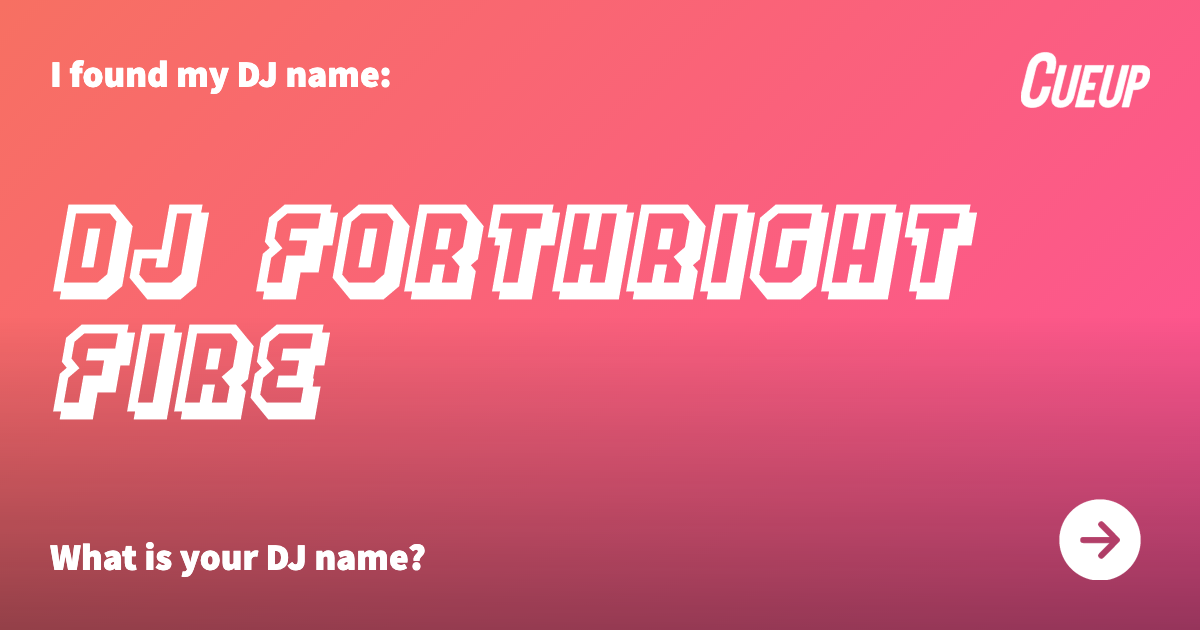
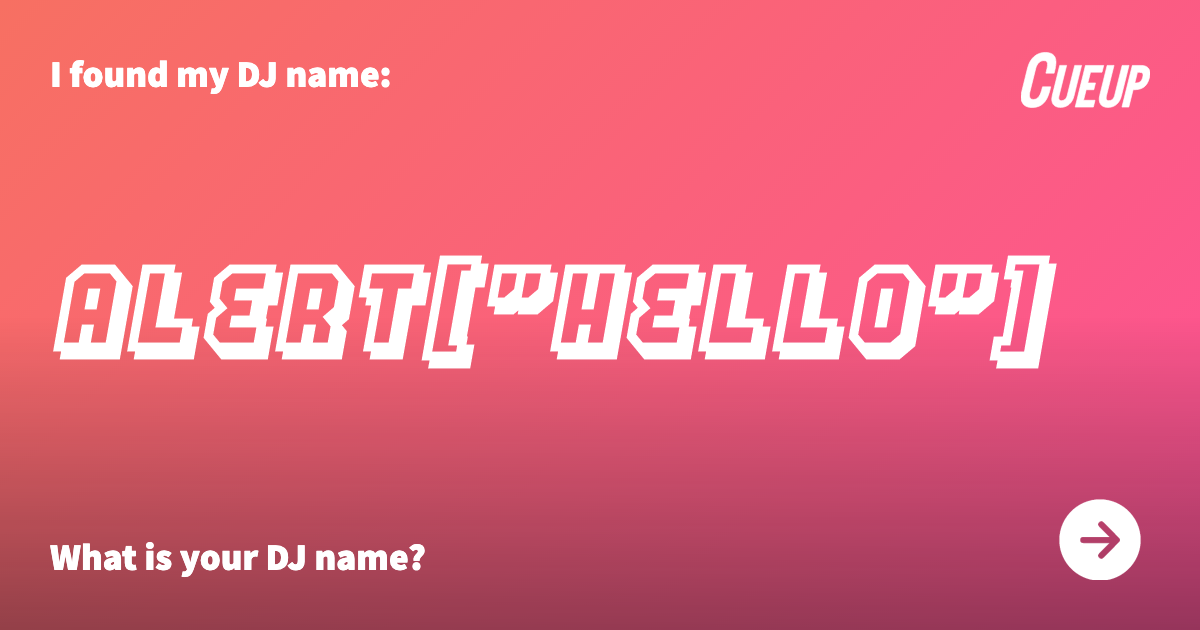
new path for image

Changed region(s): [[0.0308, 0.3016, 0.8942, 0.6937]]

diff --git a/src/server/middleware/addSocialImages.js b/src/server/middleware/addSocialImages.js
@@ -7,16 +7,24 @@ const { readFileSync } = require('fs');
 
 const djNameGenerator = async (req, res) => {
     try {
-        const name = req.queryString('name');
+        let name = req.path.split('/').pop();
 
         if (!name) {
             throw new Error('name not included');
         }
+
+        name = decodeURIComponent(name);
+
+        const puppeteerArgs = {
+            args: ['--no-sandbox', '--disable-setuid-sandbox'],
+        };
+
+        if (process.env.NODE_ENV !== 'development') {
+            puppeteerArgs.executablePath = '/usr/bin/chromium-browser';
+        }
+
         const img = await renderSocialImage({
-            puppeteerArgs: {
-                executablePath: '/usr/bin/chromium-browser',
-                args: ['--no-sandbox', '--disable-setuid-sandbox'],
-            },
+            puppeteerArgs,
             templateBody: `
             <link href="https://fonts.googleapis.com/css2?family=Source+Sans+Pro:wght@900&display=swap" rel="stylesheet"> 
                 <div class="main">
@@ -166,7 +174,7 @@ const djNameGenerator = async (req, res) => {
 
 const addSocialImages = (app) => {
     router.use(sanitize);
-    router.get('/dj-name-generator.png', djNameGenerator);
+    router.get('/dj-name-generator/*', djNameGenerator);
 
     app.use('/sharing-previews', router);
 };

diff --git a/src/shared/routes/DjNameGenerator/src/DjNameGenerator.js b/src/shared/routes/DjNameGenerator/src/DjNameGenerator.js
@@ -1,6 +1,6 @@
 import React, { useState, useEffect, useRef, useCallback } from 'react';
 import { Helmet } from 'react-helmet-async';
-import { useLocation } from 'react-router';
+import { useLocation, useParams } from 'react-router';
 import { useMutation } from 'react-apollo';
 import { useServerContext } from 'components/hooks/useServerContext';
 import useGenerateName, { TYPES } from './useGenerateName';
@@ -197,13 +197,20 @@ const Category = ({ enabled, c, toggleCategory, setName }) => {
     );
 };
 
+function useQuery() {
+    return new URLSearchParams(useLocation().search);
+}
+
 const AppWithMeta = () => {
-    const location = useLocation();
+    const params = useQuery();
+    const name = params.get('name');
     const { environment } = useServerContext();
     const title = 'DJ Name Generator | Cueup';
     const description = 'Find your DJ name from 19 billion possibilities.';
     const thumb =
-        environment.WEBSITE_URL + '/sharing-previews/dj-name-generator.png' + location.search;
+        environment.WEBSITE_URL +
+        '/sharing-previews/dj-name-generator/' +
+        (name ? encodeURIComponent(name) : '');
 
     return (
         <>
